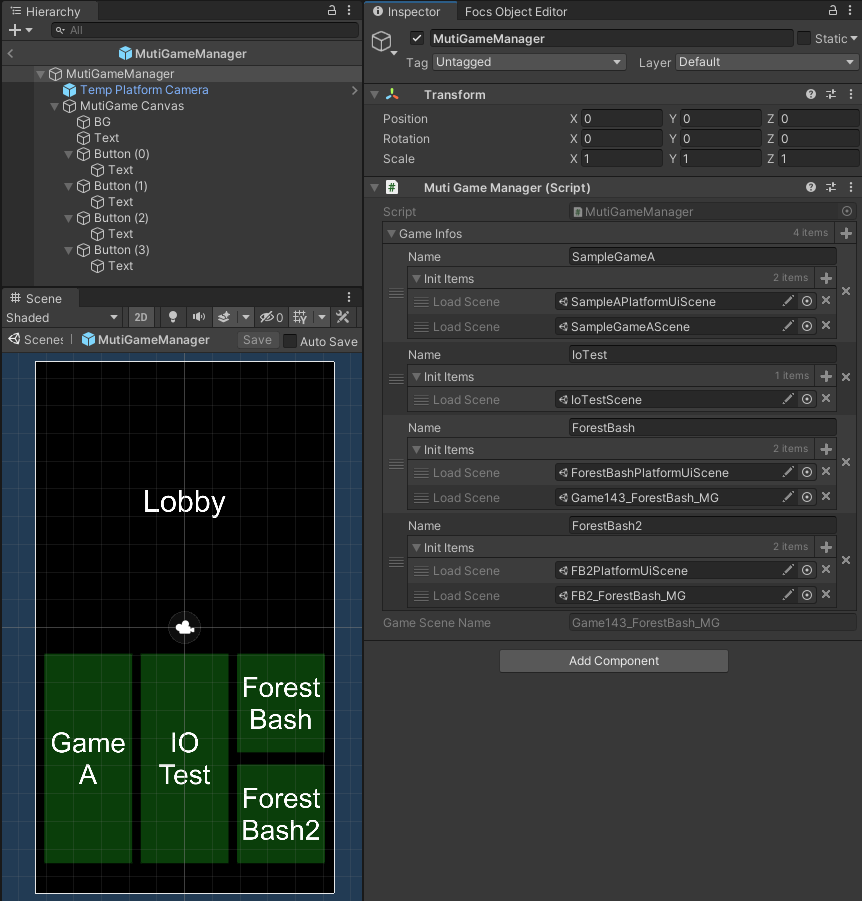
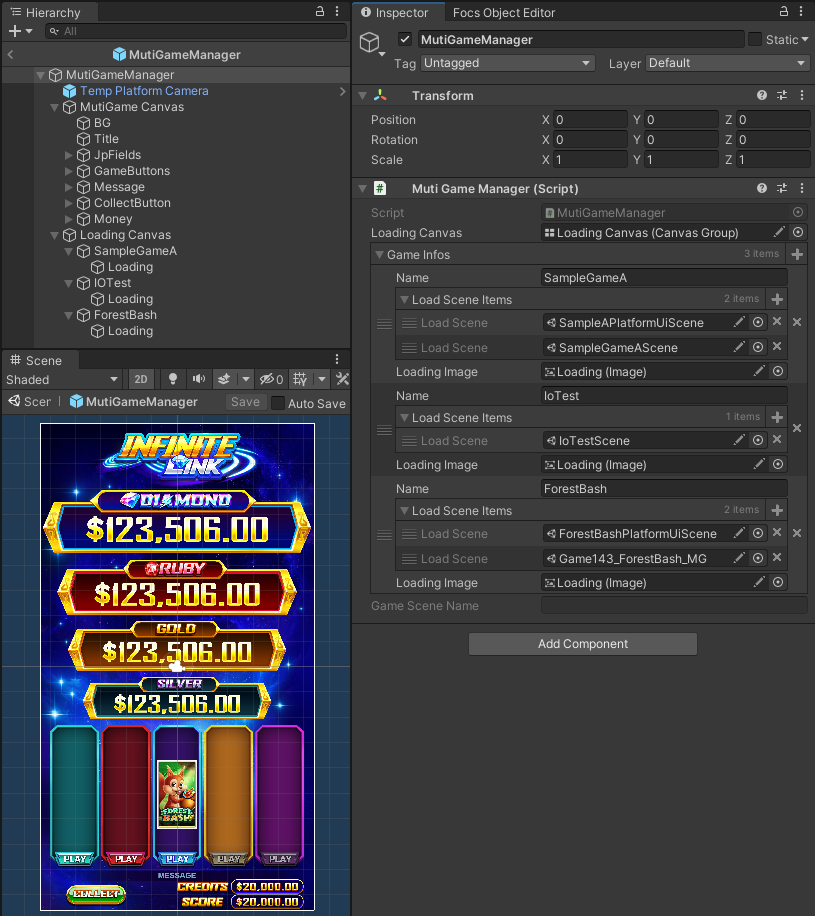
更新大廳開發手冊文件

diff --git a/ASL教學文件/AWP大廳開發手冊/readme.md b/ASL教學文件/AWP大廳開發手冊/readme.md
@@ -9,11 +9,17 @@
 ## 物件結構
 在 `Assets/ArkGame/ArkSlotGame/Platform/AwpPlatform/Common/Prefabs` 資料夾下可以找到 MutiGameManager.prefab，它就是 Awp 平台的大廳物件。
 大廳物件身上掛有 `MutiGameManager` 腳本，用來設定遊戲場景的參考，後續章節會介紹如何用它來切換遊戲。
-大廳物件底下包含平台攝影機、大廳 Canvas、以及代表各款遊戲的按鈕。
+大廳物件底下包含平台攝影機、大廳 Canvas、以及 Loading Canvas。
+* 大廳 Canvas
+包含標題圖片、JP欄位、遊戲圖項與按鈕、資產欄位等等畫面元件。
+* Loading Canvas
+當玩家按下遊戲按鈕時，會顯示對應的 Loading 畫面。
+
 ![](./MultiGameManager.png)
 
 ## 載入說明
 在 App 的初始化階段，初始場景中的 `AwpPlatform_US` 會開始執行載入與初始化的流程，在這個過程中將會自動載入大廳物件，載入後的大廳物件會保留在初始場景中，初始場景不會被關閉，因此大廳物件會一直活著。
+
 ![](./初始場景載入設定.png)
 
 ## 進出流程
@@ -37,7 +43,9 @@ ILoadGame(string p_name) {
 ## 切換遊戲
 大廳中會有各個遊戲的 ICON 按鈕，提供玩家點選想玩的遊戲。
 遊戲 ICON 按鈕需要設定當玩家點選時呼叫 MutiGameManager 的 `LoadGameByButton` 方法，並且在參數欄位填入遊戲名稱(必須與 MutiGameManager 腳本身上的設定一致)。
+
 ![](./切換遊戲設定.png)
+
 `LoadGameByButton` 方法會執行釋放與載入遊戲的流程。
 ```
 ILoadGame(string p_name) {
